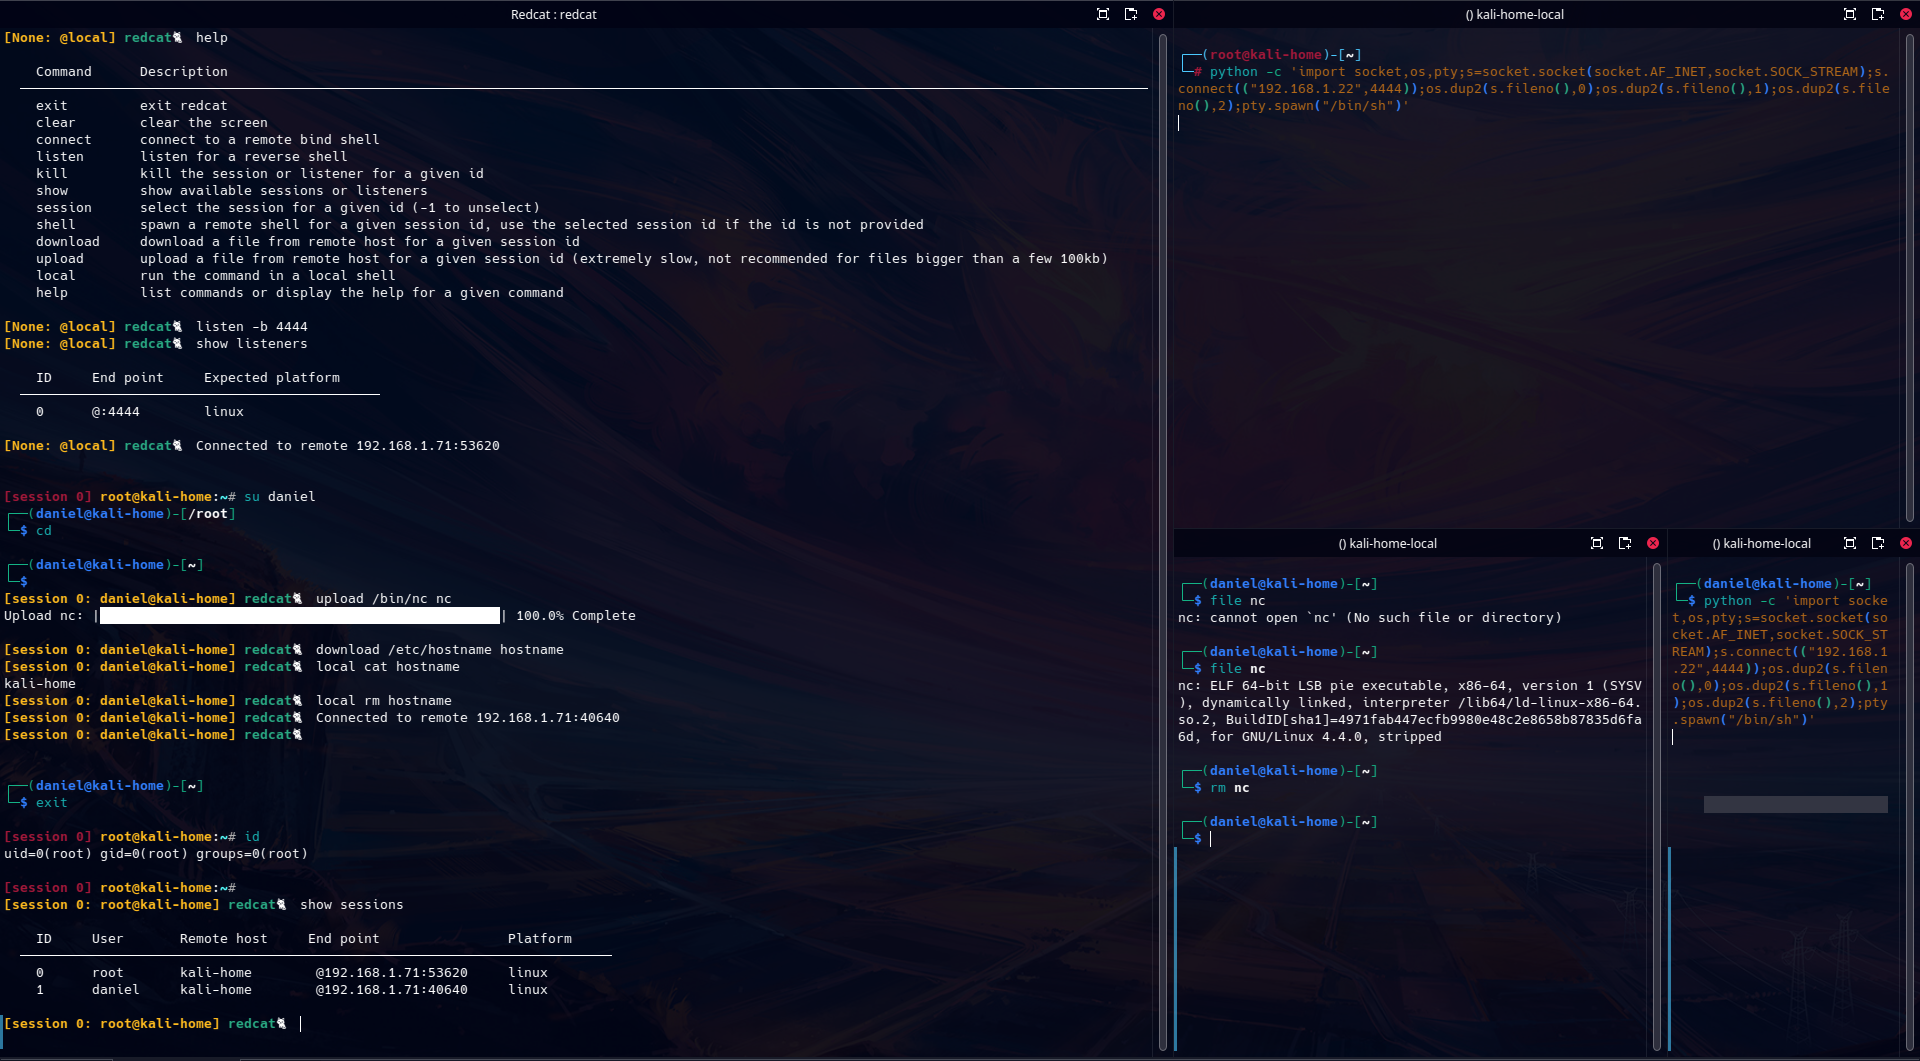
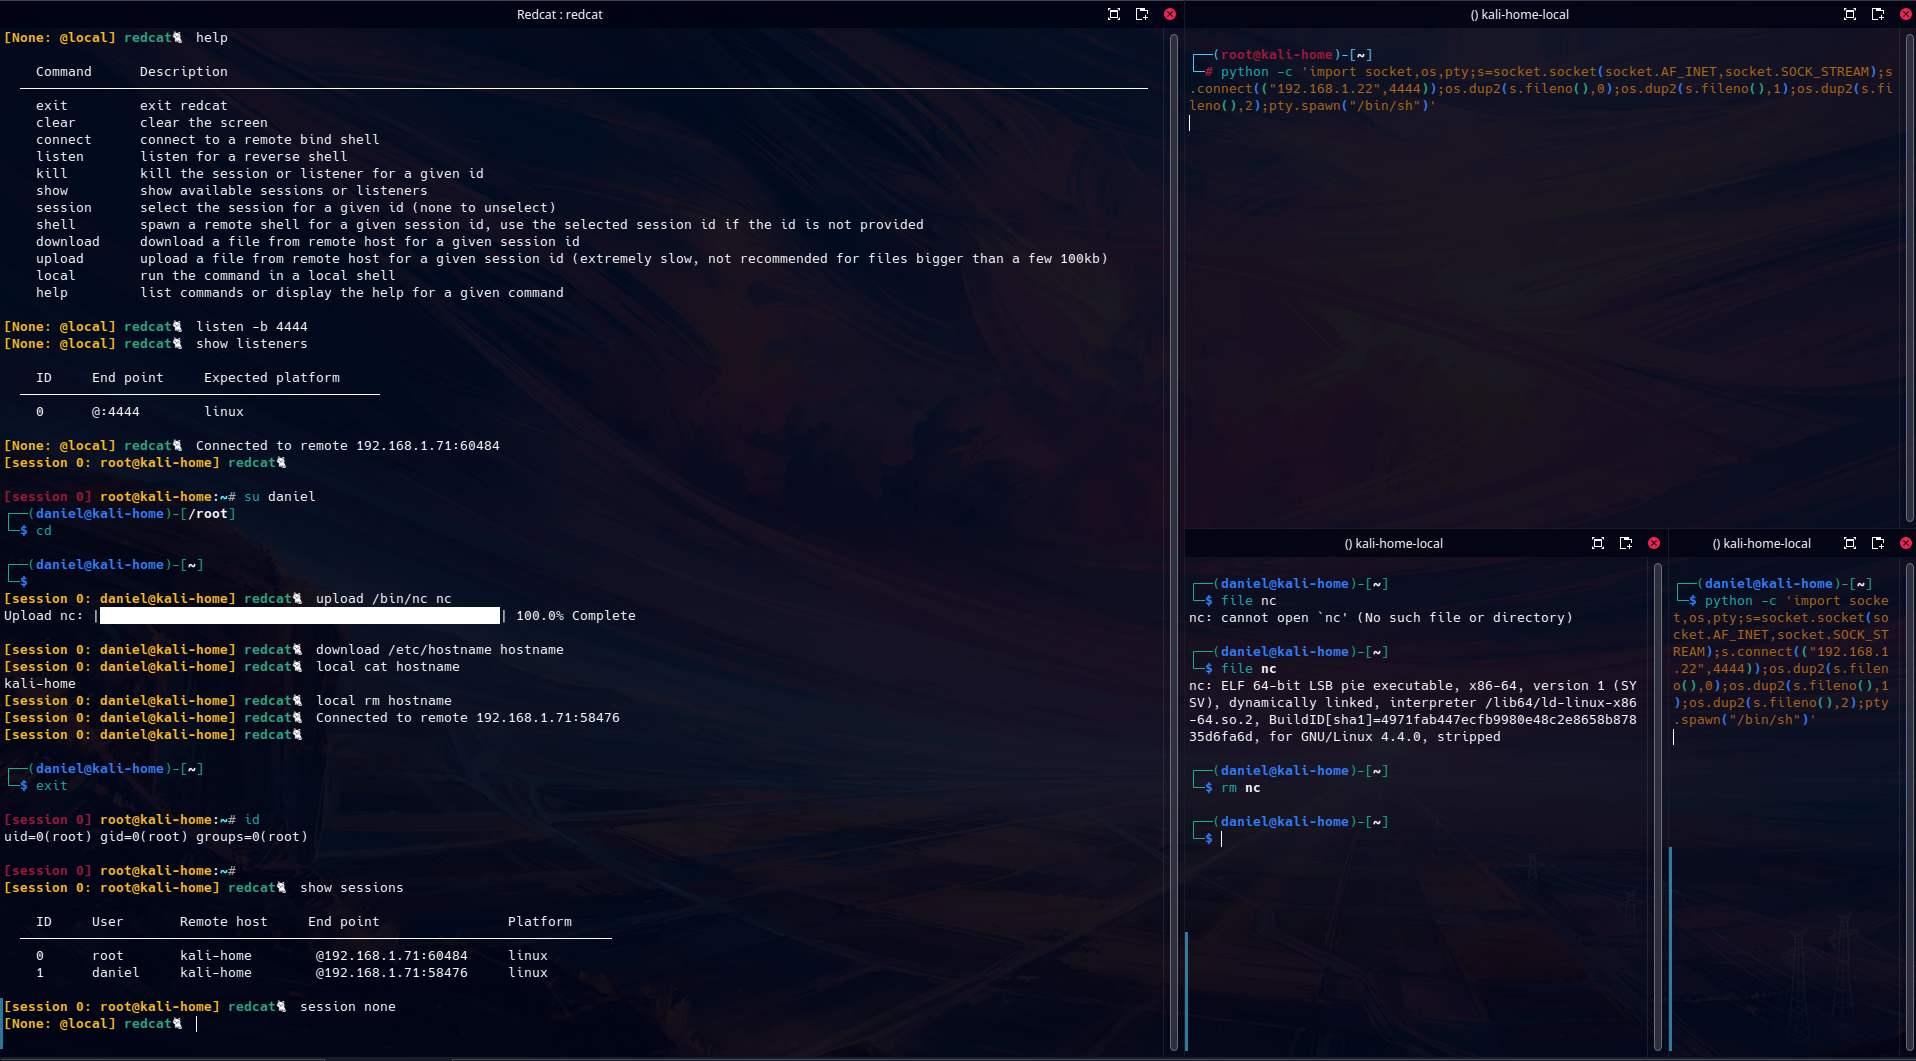
change session command to unselect current session with parameter 'none' instead of '-1', increase delay in send_cmd and update capture

diff --git a/engine.py b/engine.py
@@ -52,7 +52,7 @@ class Engine:
         cmd_show.add_argument("type", type=str, nargs=1, choices=["sessions", "listeners"], help="the objects to display")
         self.__commands[cmd_show.name] = cmd_show
         # select session command
-        cmd_session = command.Command("session", self.__manager.select_session, "select the session for a given id (-1 to unselect)")
+        cmd_session = command.Command("session", self.__manager.select_session, "select the session for a given id (none to unselect)")
         cmd_session.parser.add_argument("id", type=str, nargs=1, help="id of session to select")
         self.__commands[cmd_session.name] = cmd_session
         # remote shell command

diff --git a/platform/__init__.py b/platform/__init__.py
@@ -52,7 +52,7 @@ class Platform(abc.ABC):
     def exec_transaction(self, buffer: bytes, start: bytes, end: bytes, handle_echo: bool) -> typing.Tuple[bool, bytes]:
         return self.__chan.exec_transaction(buffer, start, end, handle_echo)
 
-    def send_cmd(self, cmd: str, wait_for: int = 0.01) -> typing.Tuple[bool, str]:
+    def send_cmd(self, cmd: str, wait_for: int = 0.05) -> typing.Tuple[bool, str]:
         res, error = self.channel.send(f"{cmd}\n".encode())
         time.sleep(wait_for)
         return res, error

diff --git a/manager.py b/manager.py
@@ -206,7 +206,7 @@ class Manager:
     def select_session(self, id: str) -> typing.Tuple[int, str]:
         res = False
         error = style.bold("unknown session id ") + style.bold(style.red(f"{id}"))
-        if id == "-1":
+        if id == "none":
             self.__selected_id = ""
             self.__selected_session = None
             res = True
